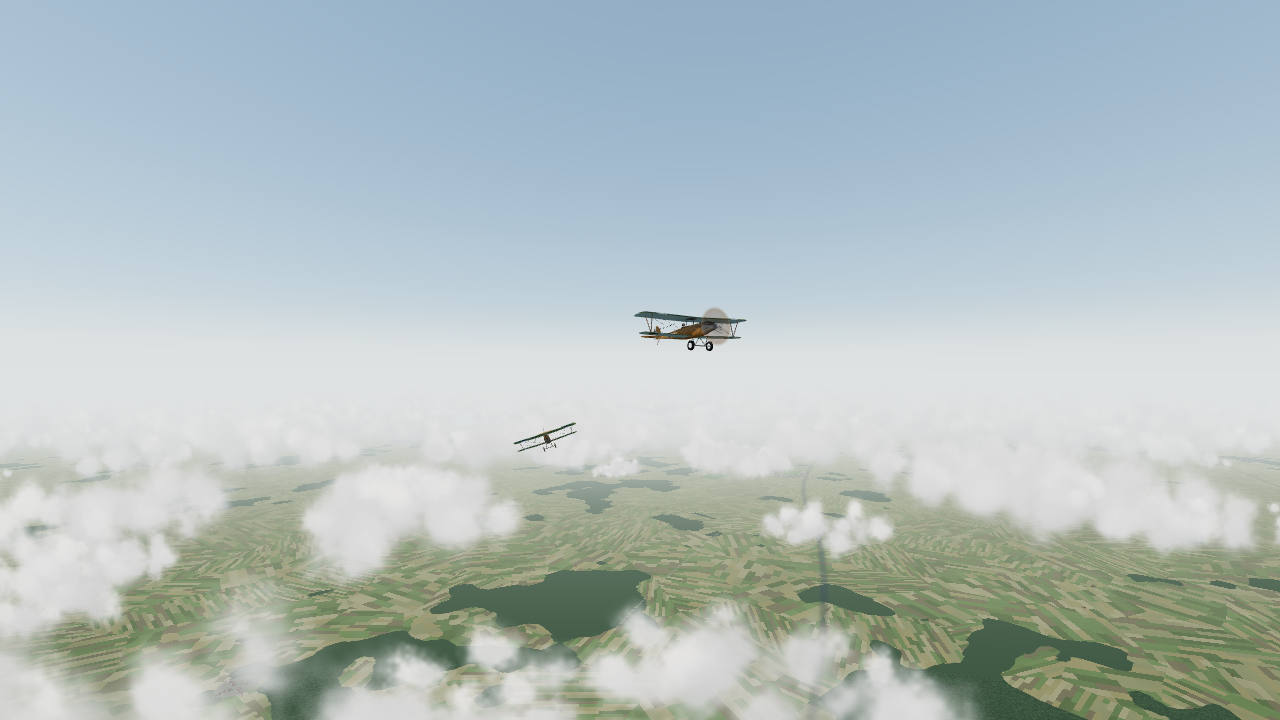
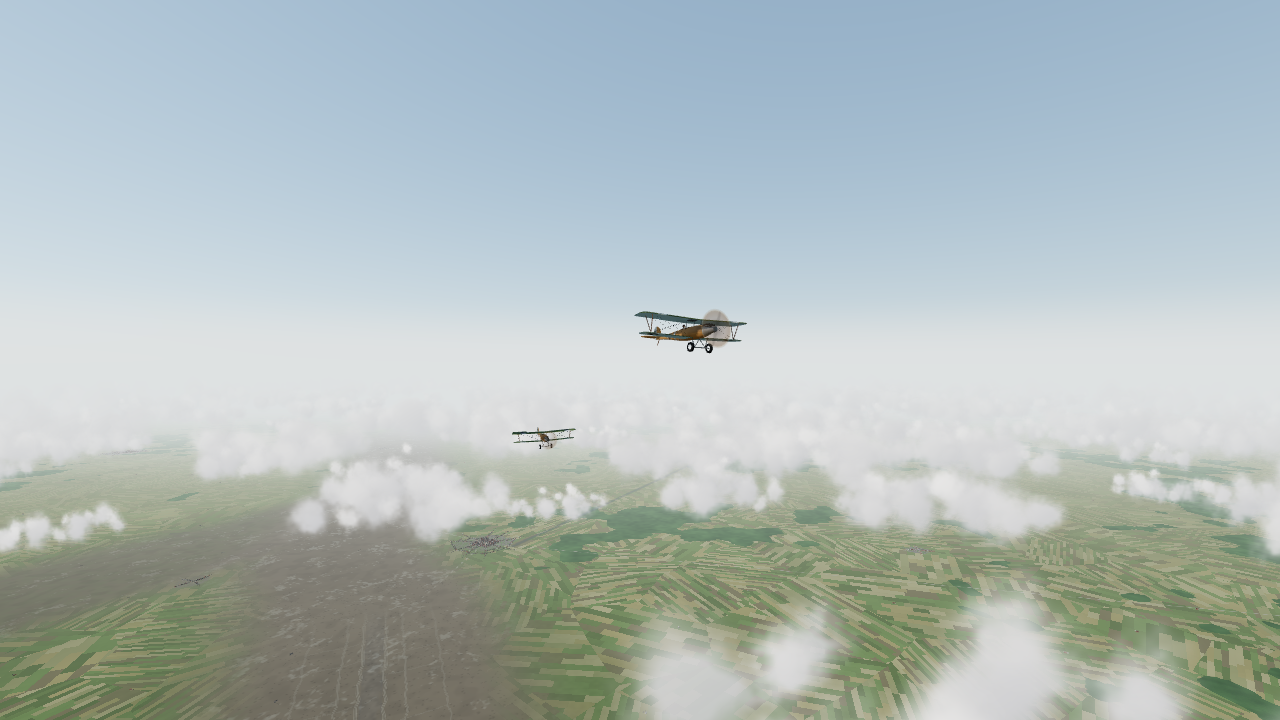
Docs: front-line look decision, world.md QA notes, STATUS/PLAYTEST dispositions; regenerate showcase gallery

Changed region(s): [[0.0, 0.5806, 1.0, 1.0], [0.5, 0.4278, 0.5938, 0.4889]]

diff --git a/docs/world.md b/docs/world.md
@@ -40,6 +40,16 @@ Sky (`sky.ts`, Preetham with a CPU port for matching haze), terrain (`terrain/`:
 
 `pnpm dev`, open `/dev/world.html?town=Arras&alt=800&date=1917-06-01&tod=dawn&cover=0.4` (params: `q, date, tod, cover, base, vis, town|x&z, back, alt, yaw, pitch, demo=1, ds, fx=flak|boom, hide=layer,...`). `node src/render/dev/shootWorld.mjs <outDir> [port] [shot...]` screenshots a fixed set of viewpoints; `probe.mjs` evaluates expressions in the page.
 
+`node src/render/dev/frontShots.mjs <outDir> [port] [croisilles|somme|ypres ...]` launches a real flight and parks a spectator camera over the trench line at 300 m, 1,000 m and 2,500 m (oblique) and 2,000 m (straight down), for judging the front at the distances players see it. `UNCAPPED=1 NOSHOT=1` prints a frame-interval p50 per view instead (use it for shader A/B timing).
+
+### Front line and woods from altitude
+The target is a period reconnaissance photograph, not a map (DECISIONS "Trenches drawn as energy-conserving lines").
+* Trench cuts, spoil banks and wire belts use box-filtered coverage (`bandCov`/`ringCov` in `terrainMaterial.ts`): a feature narrower than a pixel gets fainter, never wider. From 2 km the network is thin pale chalk lines with a faint dark core, not a black ribbon.
+* Fire and support trenches are crenellated (bays and traverses, `crenelDist`) with irregular bay lengths; the reserve line zig-zags. The pattern fades to a straight line once a bay is a few pixels long, and the cut widens by the path-length ratio so its tone is conserved.
+* Communication trenches wander (sine wiggle on a signed lane distance) and about a third of lanes have none.
+* No-man's-land is a ragged-edged, mottled brown-grey tint over the crater shading, so the pocking stays visible.
+* Woods: canopy tone varies at stand (~200 m), clump (~15 m) and crown (~5 m) scales, each fading to its mean when sub-pixel, over lighter seasonal palettes. Thresholded patches (chalk splashes, Flanders wet ground) use `tblob`, rotated noise octaves, so they are ragged rather than lattice-aligned squares.
+
 ## Performance (M3 Max, 1280×720, high, headless Chrome, steady state)
 
 ~2–3 ms/frame uncapped for typical views (arras 800 m, Somme battlefield 150 m, aerodrome 250 m), 250–450 draw calls, 0.8–1.5 M triangles. Streaming (tree cells, town tiles) is time-sliced; first seconds after a teleport show brief hitches while a city tile builds (~10 ms).
@@ -53,6 +63,8 @@ Sky (`sky.ts`, Preetham with a CPU port for matching haze), terrain (`terrain/`:
 | ultra | 3.4–4.6 | 4.4–6.4 | ~40 |
 
 *Uncapped maxima are GPU-queue pacing stalls (renderer CPU was 2 ms on those frames, with no new shader programs). With vsync (how players run), all three presets hold 16.7 ms with zero frames over 25 ms.
+
+The wave-6 front-line shader measured +0.16 ms p50 on 'high' in big16 (A/B, 3.64 against 3.48 ms mean of five samples) and +0.0–0.3 ms in the `frontShots` views.
 
 The QA rig logs per-subsystem CPU (`WorldRendererImpl.lastCpu`) and the program count on every frame over 25 ms, which separates CPU, shader-compile and GPU stalls.
 

diff --git a/DECISIONS.md b/DECISIONS.md
@@ -594,3 +594,14 @@ when its text has changed, so repeated `get()` calls stay cheap.
 - **Energy floors:** strafing holds 1.6–1.7 Vs through approach and pull-out and sets up 250 m above the target (was 320 m).
 - **Fighting back:** during a voluntary RTB (ordered home, mission or escort complete), a fit fighter engages a scout within 1.2 km that is attacking it or its leader, then resumes the RTB.
 **Consequences.** Quick ground attack (12 missions): 25% returned (was 13%), 67% killed + 8% captured, and success fell from 75% to 58%. That is the right trade for a strafer. The mission stays the deadliest quick type: the defenders' height advantage is structural, and softening it belongs to mission balance rather than AI.
+
+## D-XXX — Trenches drawn as energy-conserving lines; woods mottled, not ink (render wave 6)
+**Context.** PLAYTEST #3: from 1.5–3 km the trench line read as a thick black sawtooth ribbon and woods as flat black blots. The shader widened each trench's anti-aliasing band with the pixel footprint (`smoothstep(1.3 ± 0.6·px)`) and kept a 30% floor, so a 2 m cut with a ±3.5 m zig-zag filled 5–8 pixels at ~1 km. Far woods were a flat, dark palette colour with the near-field noise averaged away. Thresholded single-octave value noise also drew lattice-aligned squares (chalk splashes, Flanders wet ground).
+**Decision.**
+- **Box-filtered coverage:** cuts, spoil and wire use `bandCov`/`ringCov`, the exact box filter of a band against the pixel footprint. Sub-pixel features get fainter, never wider, with no floor, and every feature fades out together before the 40 m/px cutoff.
+- **Recon-photo look:** thin dark cuts (shadowed earth at 0.36× the local ground, not near-black), pale chalk spoil in Artois/Somme, dun breastworks in Flanders, and a faint grey band for wire from altitude.
+- **Trench traces:** fire and support lines are crenellated (bays and traverses) with irregular bay lengths, and the reserve zig-zags. The pattern fades to a straight line once a bay is a few pixels long, widening the cut by the path-length ratio so its tone is conserved. Communication trenches wander and about a third of lanes have none.
+- **No-man's-land:** a ragged, mottled brown-grey tint over the existing crater shading, not a replacement colour (a flat replacement read as a paved strip).
+- **Woods:** multi-scale canopy tone (stand, clump, crown), each fading to its mean, over lighter seasonal forest colours. Autumn tree tints are less orange.
+- **`tblob`:** two rotated value-noise octaves for thresholded patches.
+**Consequences.** From 1–3 km the network reads as fine pale lines, from 2 km straight down as parallel chalk lines with communication trenches, and at 50–300 m as dark crenellated cuts edged with spoil. The wave-4 low-level crater look is unchanged. Cost: +0.16 ms p50 on 'high' in big16 (A/B mean of five, 3.64 against 3.48 ms), within noise in the `frontShots` views. The trench trace direction is still a fixed world axis (`along`), so lines running east–west show stretched bays; an arc-length parameter would need a per-vertex attribute.

diff --git a/docs/PLAYTEST.md b/docs/PLAYTEST.md
@@ -33,7 +33,7 @@ this pass's ownership (UI, campaign, campaign data).
 |---|---|---|---|---|---|
 | 1 | major | **Abandon mission was one click, and it can end a career.** Over enemy lines it records capture. A new player pressing Esc → Abandon to leave a bad fight lost the pilot for good, with no warning. | Career → fly over the lines → Esc → Abandon mission | `src/ui/hud/hud.ts` | **Fixed:** a confirmation card explains the consequence ("…you will come down there and be taken prisoner"). |
 | 2 | major | **Instant action took about a minute to reach the enemy.** Head-on quick dogfights started about 5 km apart, so the first 55 s were straight-line flying. RB2's instant action threw you into the fight. | Quick Mission → Dogfight → head-on | `src/campaign/quickMission.ts` | **Fixed:** the flights start about 2.6 km apart and merge in about 25 s. Other quick types keep their run-in. |
-| 3 | major | **The trench line reads as a thick black sawtooth band from altitude.** At about 2 km over Croisilles, the zig-zag trench is a solid dark ribbon many pixels wide. It is the most "game-y" thing on screen. | Quick dogfight (Camel, Feb 1918) → look down from 2,000–2,500 m | `src/render/terrain` (trench mask / terrain material) | Routed (render) |
+| 3 | major | **The trench line reads as a thick black sawtooth band from altitude.** At about 2 km over Croisilles, the zig-zag trench is a solid dark ribbon many pixels wide. It is the most "game-y" thing on screen. | Quick dogfight (Camel, Feb 1918) → look down from 2,000–2,500 m | `src/render/terrain` (trench mask / terrain material) | **Fixed** (wave 6): energy-conserving trench lines, mottled woods. |
 | 4 | major | **In mouse-aim mode the cockpit view follows the aim point.** Whenever the aim is well off the nose (turn fights, hunting above or behind), the whole screen is the upper-wing underside or empty sky, with no airframe or horizon for reference. That is disorienting, and unlike RB2's fixed forward view plus padlock. | Any fight with mouse-aim; aim 40°+ off the nose | `src/game/cameras.ts` / `src/game/input.ts` | Routed (game). Suggest clamping how far the head leads the nose in cockpit view (about 20–25°), or making it an option. |
 | 5 | minor | **Historical ranks and honours were static.** Standings, briefings and wingman rosters used each ace's final rank and VC in every year: "Major William Bishop VC" in June 1917, "Capt. Guynemer" in July 1916, "Captain Reed Chambers" in April 1918. | Ace Standings tab or a briefing in 1916–17 | `src/data/aces.ts`, campaign | **Fixed:** dated rank histories and honours for 17 aces (`aceNamesOn`), used by briefings, standings, debrief news and wingmen. |
 | 6 | minor | **French July 1916 escort briefing named "Royal Aircraft Factory R.E.8 machines".** The R.E.8 entered service in November 1916, and the roster has no earlier two-seater. | N.3, 10 July 1916, escort | `src/campaign/missionGen.ts` | **Fixed** in text: stand-in types are named generically ("observation two-seaters") before they entered service. The 3D model is still an R.E.8: see #15. |

diff --git a/docs/STATUS.md b/docs/STATUS.md
@@ -101,7 +101,20 @@ Remaining:
   p50, 'high' ≈ 3.5 ms, 'ultra' ≈ 4 ms uncapped, and a locked 60 fps with vsync.
 - The crater grid is built in a worker at load, and `whenReady` waits for it.
 
+**Visuals — done (wave 6)**
+- PLAYTEST #3 (trenches and woods as black ink from altitude) is fixed
+  (DECISIONS "Trenches drawn as energy-conserving lines"). Trenches thin with
+  distance and read as pale chalk lines from 1–3 km. Up close they are
+  crenellated cuts edged with spoil. No-man's-land is a mottled brown-grey band,
+  and woods are mottled mid-tones. Check with
+  `node src/render/dev/frontShots.mjs <out> <port>` (300 m / 1 km / 2.5 km /
+  straight down at Croisilles, the Somme and Ypres).
+- Showcase gallery regenerated. Before/after (left/right): `docs/screenshots/front-before-after.jpg`.
+
 **Defer — visuals**
+- Trench bays follow a fixed world axis, so east–west stretches of the line
+  show stretched bays. Fix with an arc-length vertex attribute only if players
+  notice.
 - Dusk and dawn light is correct but muted: low sun lights the ground weakly.
   Revisit if players want more golden-hour drama.
 - Openfield strips read busy from 700–1500 m. Consider lowering the
